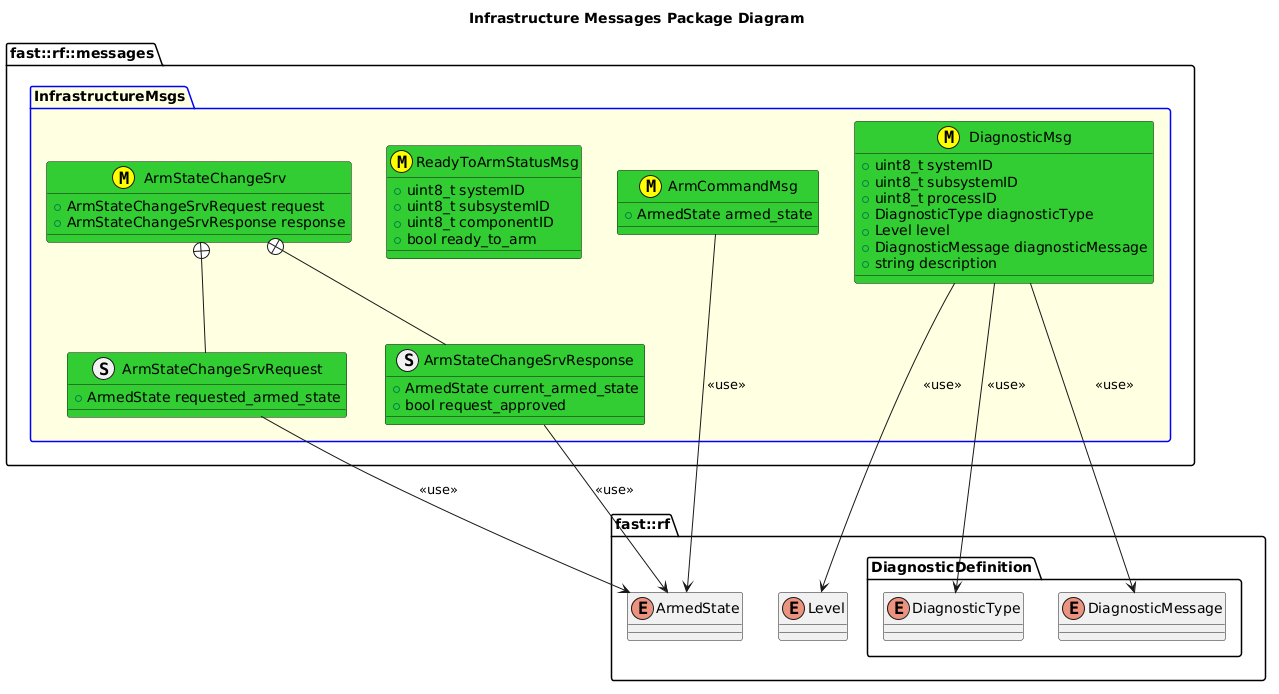
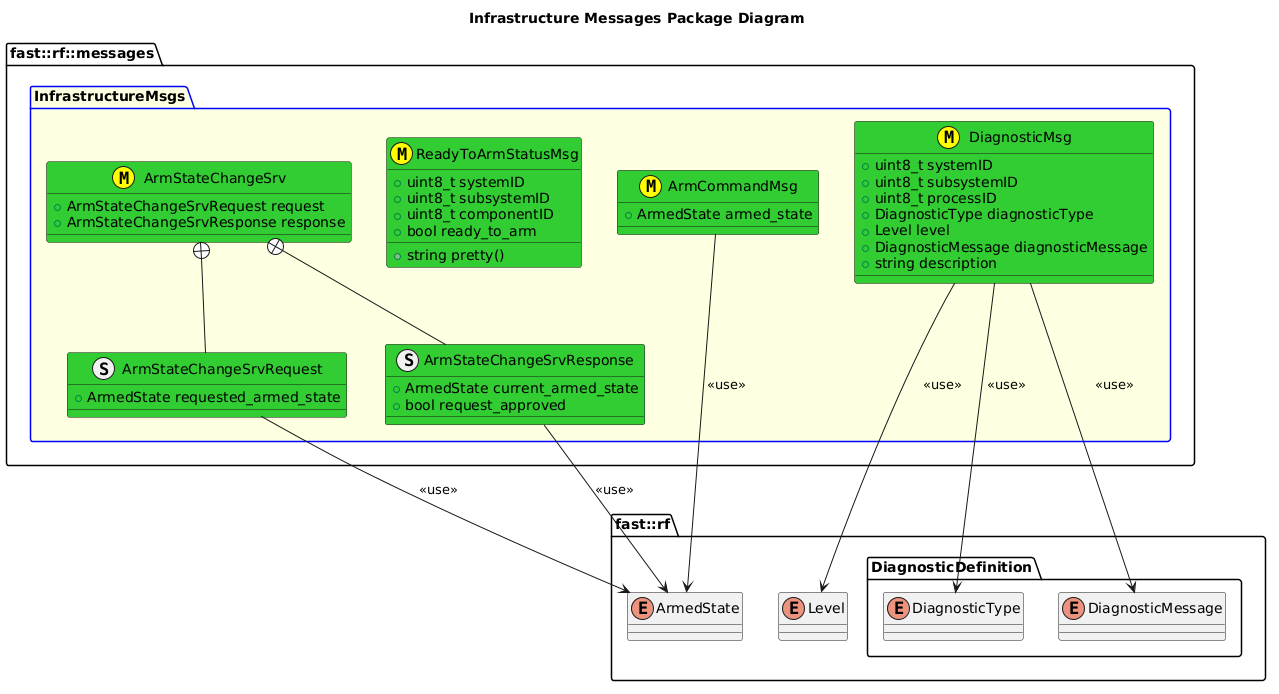
WIP

Changed region(s): [[0.3049, 0.1816, 0.4574, 0.3934]]

diff --git a/Systems/Safety/Subsystems/ModeManager/Processes/ArmedStateManager/include/ReadyToArmComputer.hpp b/Systems/Safety/Subsystems/ModeManager/Processes/ArmedStateManager/include/ReadyToArmComputer.hpp
@@ -22,22 +22,58 @@ namespace fast::rf::SafetySystem::ModeManagerSubsystem {
      */
     class ReadyToArmComputer {
        public:
+        static constexpr double PROCESS_TIMEOUT_SEC =
+            5.0;  //!< How long before not receiving a Process Update times out
+        using MonitorKey = std::tuple<uint8_t, uint8_t, uint8_t>;  //!< Definition for Key
+        /**
+         * @brief Generate a Monitor Key
+         *
+         * @param systemID
+         * @param subsystemID
+         * @param processID
+         * @return MonitorKey
+         */
+        static MonitorKey generate_key(uint8_t systemID, uint8_t subsystemID, uint8_t processID) {
+            return std::make_tuple(systemID, subsystemID, processID);
+        }
+        /**
+         * @brief Data Structure for encoding Monitors
+         *
+         */
         struct Monitor {
-            uint8_t systemID;
-            uint8_t subsystemID;
-            uint8_t componentID;
-            using MonitorKey = std::tuple<uint8_t, uint8_t, uint8_t>;
-            MonitorKey key;
-            bool ready_to_arm;
-            double last_update_time_sec;
+            uint8_t systemID;          //!< System ID
+            uint8_t subsystemID;       //!< Subsystem ID
+            uint8_t processID;         //!< Process ID
+            MonitorKey key;            //!< Key for Monitor
+            bool ready_to_arm;         //!< If the process is ready to arm
+            double time_last_updated;  //!< Timestamp when the Monitor was updated.
 
-            Monitor(uint8_t systemID, uint8_t subsystemID, uint8_t componentID)
+            /**
+             * @brief Construct a new Monitor object
+             *
+             * @param systemID
+             * @param subsystemID
+             * @param processID
+             */
+            Monitor(uint8_t systemID, uint8_t subsystemID, uint8_t processID)
                 : systemID(systemID),
                   subsystemID(subsystemID),
-                  componentID(componentID),
+                  processID(processID),
                   ready_to_arm(false),
-                  last_update_time_sec(-1.0) {
-                key = std::make_tuple(systemID, subsystemID, componentID);
+                  time_last_updated(-1.0) {
+                key = generate_key(systemID, subsystemID, processID);
+            }
+            /**
+             * @brief Human readable string for Monitor
+             *
+             * @param after_string A user string to append after
+             * @return std::string
+             */
+            std::string pretty(std::string after_string = "") {
+                std::string str = std::to_string(systemID) + "-" + std::to_string(subsystemID) + "-" +
+                                  std::to_string(processID) + " Ready To Arm: " + std::to_string(ready_to_arm) +
+                                  " Time Last Update: " + std::to_string(time_last_updated) + " (sec)" + after_string;
+                return str;
             }
         };
         /**
@@ -45,11 +81,11 @@ namespace fast::rf::SafetySystem::ModeManagerSubsystem {
          *
          * @param systemID
          * @param subystemID
-         * @param componentID
+         * @param processID
          * @return true
          * @return false
          */
-        bool add_monitor(uint8_t systemID, uint8_t subystemID, uint8_t componentID);
+        bool add_monitor(uint8_t systemID, uint8_t subystemID, uint8_t processID);
         /**
          * @brief Initialize the Object.  Call this AFTER adding the monitors
          *
@@ -88,7 +124,8 @@ namespace fast::rf::SafetySystem::ModeManagerSubsystem {
         bool new_ArmedStatus(fast::rf::messages::InfrastructureMsgs::ReadyToArmStatusMsg msg);
 
        private:
+        double current_time_sec{-1.0};
         bool ready_to_arm{false};
-        std::map<Monitor::MonitorKey, Monitor> monitors;
+        std::map<MonitorKey, Monitor> monitors;
     };
 }  // namespace fast::rf::SafetySystem::ModeManagerSubsystem

diff --git a/Systems/Safety/Subsystems/ModeManager/Processes/ArmedStateManager/src/ReadyToArmComputer.cpp b/Systems/Safety/Subsystems/ModeManager/Processes/ArmedStateManager/src/ReadyToArmComputer.cpp
@@ -1,10 +1,10 @@
 #include <Infrastructure/Logger.hpp>
 #include <ReadyToArmComputer.hpp>
 namespace fast::rf::SafetySystem::ModeManagerSubsystem {
-    bool ReadyToArmComputer::add_monitor(uint8_t systemID, uint8_t subsystemID, uint8_t componentID) {
+    bool ReadyToArmComputer::add_monitor(uint8_t systemID, uint8_t subsystemID, uint8_t processID) {
         [[maybe_unused]] std::size_t before_size = monitors.size();
-        Monitor monitor = Monitor(systemID, subsystemID, componentID);
-        monitors[monitor.key] = monitor;
+        Monitor monitor = Monitor(systemID, subsystemID, processID);
+        monitors.insert({monitor.key, monitor});
         std::size_t after_size = monitors.size();
         if (after_size > before_size) {
             return true;
@@ -13,11 +13,67 @@ namespace fast::rf::SafetySystem::ModeManagerSubsystem {
             return false;
         }
     }
-    bool ReadyToArmComputer::init() { return false; }
-    std::string ReadyToArmComputer::pretty() { return ""; }
-    bool ReadyToArmComputer::update([[maybe_unused]] double current_time_sec) { return false; }
+    bool ReadyToArmComputer::init() {
+        if (monitors.size() > 0) {
+            return true;
+        } else {
+            return false;
+        }
+    }
+    std::string ReadyToArmComputer::pretty() {
+        std::string str = "---Ready To Arm Computer---\n";
+        str +=
+            "\tT: " + std::to_string(current_time_sec) + " (sec) Ready To Arm: " + std::to_string(ready_to_arm) + "\n";
+        str += "\tMonitors: " + std::to_string(monitors.size()) + "\n";
+        uint16_t counter = 0;
+        for (auto monitor : monitors) {
+            str += "\t[" + std::to_string(counter) + "/" + std::to_string(monitors.size()) + "] " +
+                   monitor.second.pretty() + "\n";
+        }
+        return str;
+    }
+    bool ReadyToArmComputer::update(double current_time_sec_) {
+        current_time_sec = current_time_sec_;
+        if (monitors.size() == 0) {
+            ready_to_arm = false;
+            fast::rf::Logger::log_warn("No Monitors Defined!  Won't be able to Arm.");
+            return false;
+        }
+        bool all_ready_to_arm = true;
+        for (auto monitor : monitors) {
+            if (monitor.second.time_last_updated < 0) {
+                fast::rf::Logger::log_warn(monitor.second.pretty() + " NEVER RECEIVED!");
+                all_ready_to_arm = false;
+            } else if (monitor.second.ready_to_arm == false) {
+                fast::rf::Logger::log_warn(monitor.second.pretty() + " NOT READY!");
+                all_ready_to_arm = false;
+            } else {
+                double time_since_last = current_time_sec - monitor.second.time_last_updated;
+                if (time_since_last >= ReadyToArmComputer::PROCESS_TIMEOUT_SEC) {
+                    monitor.second.ready_to_arm = false;
+                    fast::rf::Logger::log_warn(monitor.second.pretty() + " TIMEOUT!");
+                    all_ready_to_arm = false;
+                }
+            }
+        }
+        if (all_ready_to_arm == true) {
+            ready_to_arm = true;
+        } else {
+            ready_to_arm = false;
+        }
+        return true;
+    }
     bool ReadyToArmComputer::new_ArmedStatus([
         [maybe_unused]] fast::rf::messages::InfrastructureMsgs::ReadyToArmStatusMsg msg) {
-        return false;
+        auto key = generate_key(msg.systemID, msg.subsystemID, msg.processID);
+        auto it = monitors.find(key);
+        if (it == monitors.end()) {
+            fast::rf::Logger::log_warn("Monitor not initialized for: " + msg.pretty());
+            return false;
+        } else {
+            it->second.ready_to_arm = msg.ready_to_arm;
+            it->second.time_last_updated = current_time_sec;
+        }
+        return true;
     }
 }  // namespace fast::rf::SafetySystem::ModeManagerSubsystem

diff --git a/Systems/Safety/Subsystems/ModeManager/Processes/ArmedStateManager/src/test/test_ReadyToArmComputer.cpp b/Systems/Safety/Subsystems/ModeManager/Processes/ArmedStateManager/src/test/test_ReadyToArmComputer.cpp
@@ -8,10 +8,83 @@
 using namespace fast::rf::SafetySystem::ModeManagerSubsystem;
 TEST(ReadyToArmComputer, InterfaceTests) {
     ReadyToArmComputer SUT;
-    ASSERT_TRUE(SUT.add_monitor(1, 2, 3));
+    ASSERT_FALSE(SUT.init());
+    ASSERT_FALSE(SUT.update(0.0));
+    fast::rf::messages::InfrastructureMsgs::ReadyToArmStatusMsg process1;
+    process1.systemID = 1;
+    process1.subsystemID = 2;
+    process1.processID = 3;
+    ASSERT_TRUE(SUT.add_monitor(process1.systemID, process1.subsystemID, process1.processID));
     ASSERT_TRUE(SUT.init());
     auto str = SUT.pretty();
     ASSERT_GT(str.size(), 0);
-    fast::rf::Logger::log_debug(SUT.pretty());
+    fast::rf::Logger::log_debug("\n" + SUT.pretty());
     ASSERT_TRUE(SUT.update(0.0));
+    ASSERT_TRUE(SUT.new_ArmedStatus(process1));
+
+    fast::rf::messages::InfrastructureMsgs::ReadyToArmStatusMsg processX;
+    ASSERT_FALSE(SUT.new_ArmedStatus(processX));
+}
+TEST(ReadyToArmComputer, FullTests) {
+    double current_time = 0.0;
+    ReadyToArmComputer SUT;
+    fast::rf::messages::InfrastructureMsgs::ReadyToArmStatusMsg process1;
+    process1.systemID = 1;
+    process1.subsystemID = 2;
+    process1.processID = 3;
+
+    fast::rf::messages::InfrastructureMsgs::ReadyToArmStatusMsg process2;
+    process2.systemID = 2;
+    process2.subsystemID = 3;
+    process2.processID = 4;
+    ASSERT_TRUE(SUT.add_monitor(process1.systemID, process1.subsystemID, process1.processID));
+    ASSERT_TRUE(SUT.add_monitor(process2.systemID, process2.subsystemID, process2.processID));
+    ASSERT_FALSE(SUT.add_monitor(process2.systemID, process2.subsystemID, process2.processID));
+    ASSERT_TRUE(SUT.init());
+    ASSERT_TRUE(SUT.update(current_time));
+
+    process1.ready_to_arm = true;
+    ASSERT_TRUE(SUT.new_ArmedStatus(process1));
+    process2.ready_to_arm = true;
+    ASSERT_TRUE(SUT.new_ArmedStatus(process2));
+    current_time += 0.1;
+    ASSERT_TRUE(SUT.update(current_time));
+
+    ASSERT_TRUE(SUT.get_ready_to_arm());
+
+    current_time += ReadyToArmComputer::PROCESS_TIMEOUT_SEC / 2.0;
+    ASSERT_TRUE(SUT.update(current_time));
+    ASSERT_TRUE(SUT.get_ready_to_arm());
+
+    current_time += 1.0 + ReadyToArmComputer::PROCESS_TIMEOUT_SEC / 2.0;
+    ASSERT_TRUE(SUT.update(current_time));
+    fast::rf::Logger::log_info(SUT.pretty());
+    ASSERT_FALSE(SUT.get_ready_to_arm());
+
+    process1.ready_to_arm = true;
+    ASSERT_TRUE(SUT.new_ArmedStatus(process1));
+    current_time += 0.1;
+    ASSERT_TRUE(SUT.update(current_time));
+    ASSERT_FALSE(SUT.get_ready_to_arm());
+
+    process2.ready_to_arm = true;
+    ASSERT_TRUE(SUT.new_ArmedStatus(process2));
+    current_time += 0.1;
+    ASSERT_TRUE(SUT.update(current_time));
+    fast::rf::Logger::log_info(SUT.pretty());
+    ASSERT_TRUE(SUT.get_ready_to_arm());
+
+    process2.ready_to_arm = false;
+    ASSERT_TRUE(SUT.new_ArmedStatus(process2));
+    current_time += 0.1;
+    ASSERT_TRUE(SUT.update(current_time));
+    fast::rf::Logger::log_info(SUT.pretty());
+    ASSERT_FALSE(SUT.get_ready_to_arm());
+
+    process2.ready_to_arm = true;
+    ASSERT_TRUE(SUT.new_ArmedStatus(process2));
+    current_time += 0.1;
+    ASSERT_TRUE(SUT.update(current_time));
+    fast::rf::Logger::log_info(SUT.pretty());
+    ASSERT_TRUE(SUT.get_ready_to_arm());
 }

diff --git a/msgs/InfrastructureMsgs/include/ReadyToArmStatusMsg.hpp b/msgs/InfrastructureMsgs/include/ReadyToArmStatusMsg.hpp
@@ -20,7 +20,7 @@ namespace fast::rf::messages::InfrastructureMsgs {
         uint8_t subsystemID;  //!< Unique Identifier for the Subsystem
         uint8_t processID;    //!< Unique Identifier for the Process
         bool ready_to_arm;    //!< If the Process is Ready to Arm
-        ReadyToArmStatusMsg() {}
+        ReadyToArmStatusMsg() : systemID(0), subsystemID(0), processID(0) {}
 
         /**
          * @brief Construct a new Ready To Arm Status Msg object
@@ -31,5 +31,16 @@ namespace fast::rf::messages::InfrastructureMsgs {
          */
         ReadyToArmStatusMsg(uint8_t systemID, uint8_t subsystemID, uint8_t processID)
             : systemID(systemID), subsystemID(subsystemID), processID(processID), ready_to_arm(false){};
+
+        /**
+         * @brief Print out human readable string
+         *
+         * @return std::string
+         */
+        std::string pretty() {
+            std::string str = std::to_string(systemID) + "-" + std::to_string(subsystemID) + "-" +
+                              std::to_string(processID) + " Ready To Arm: " + std::to_string(ready_to_arm);
+            return str;
+        }
     };
 }  // namespace fast::rf::messages::InfrastructureMsgs
